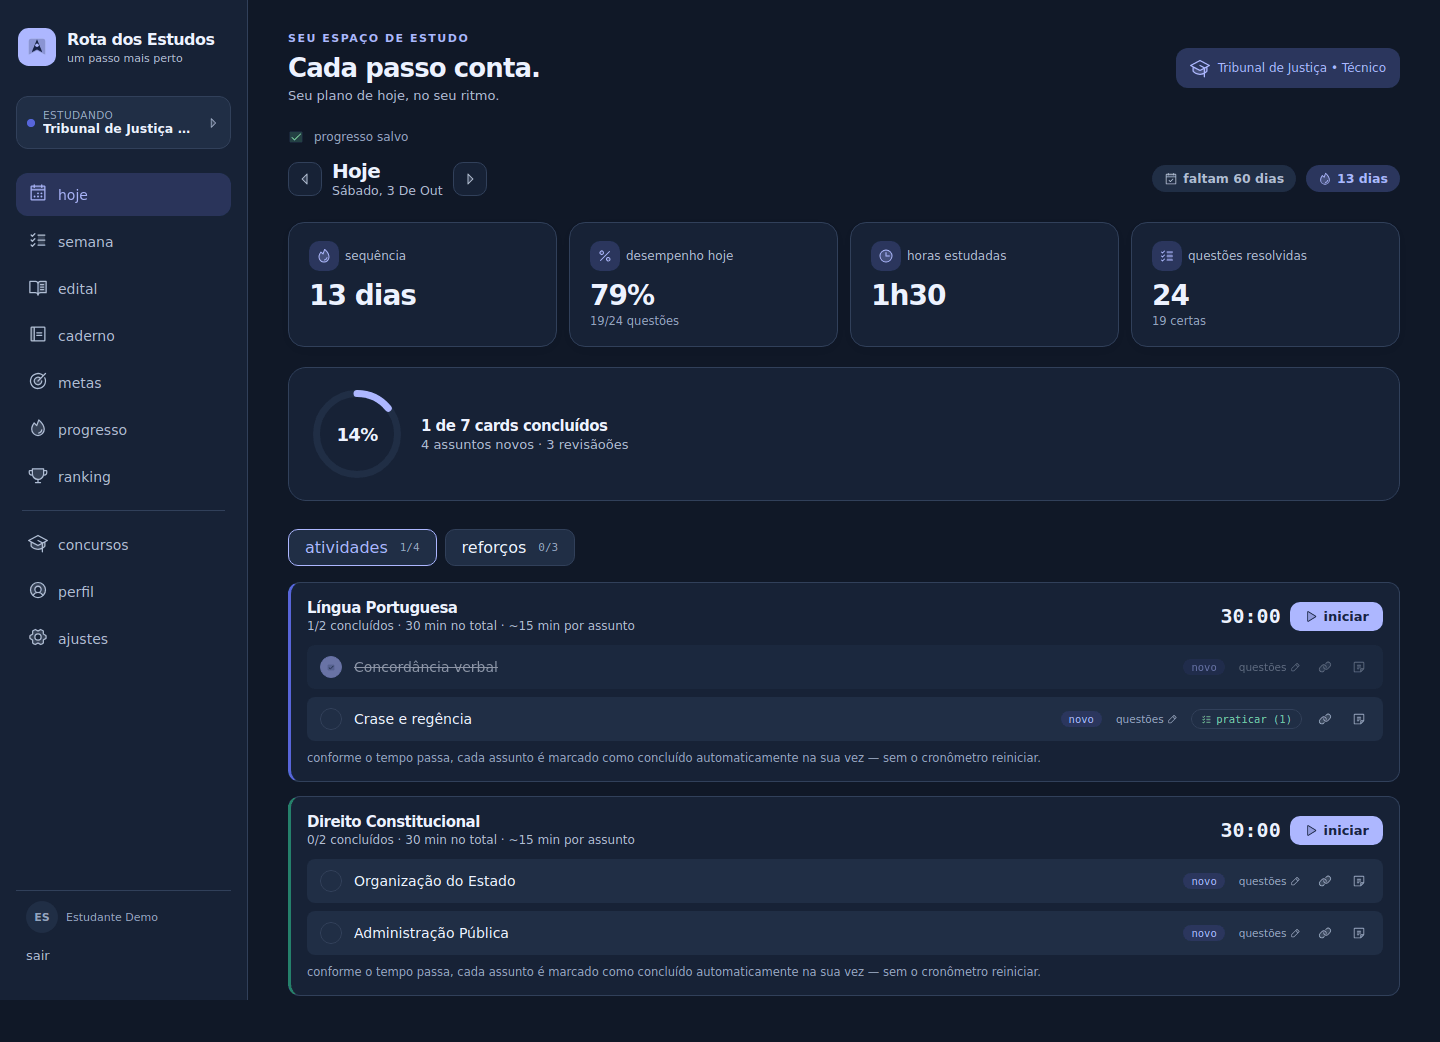
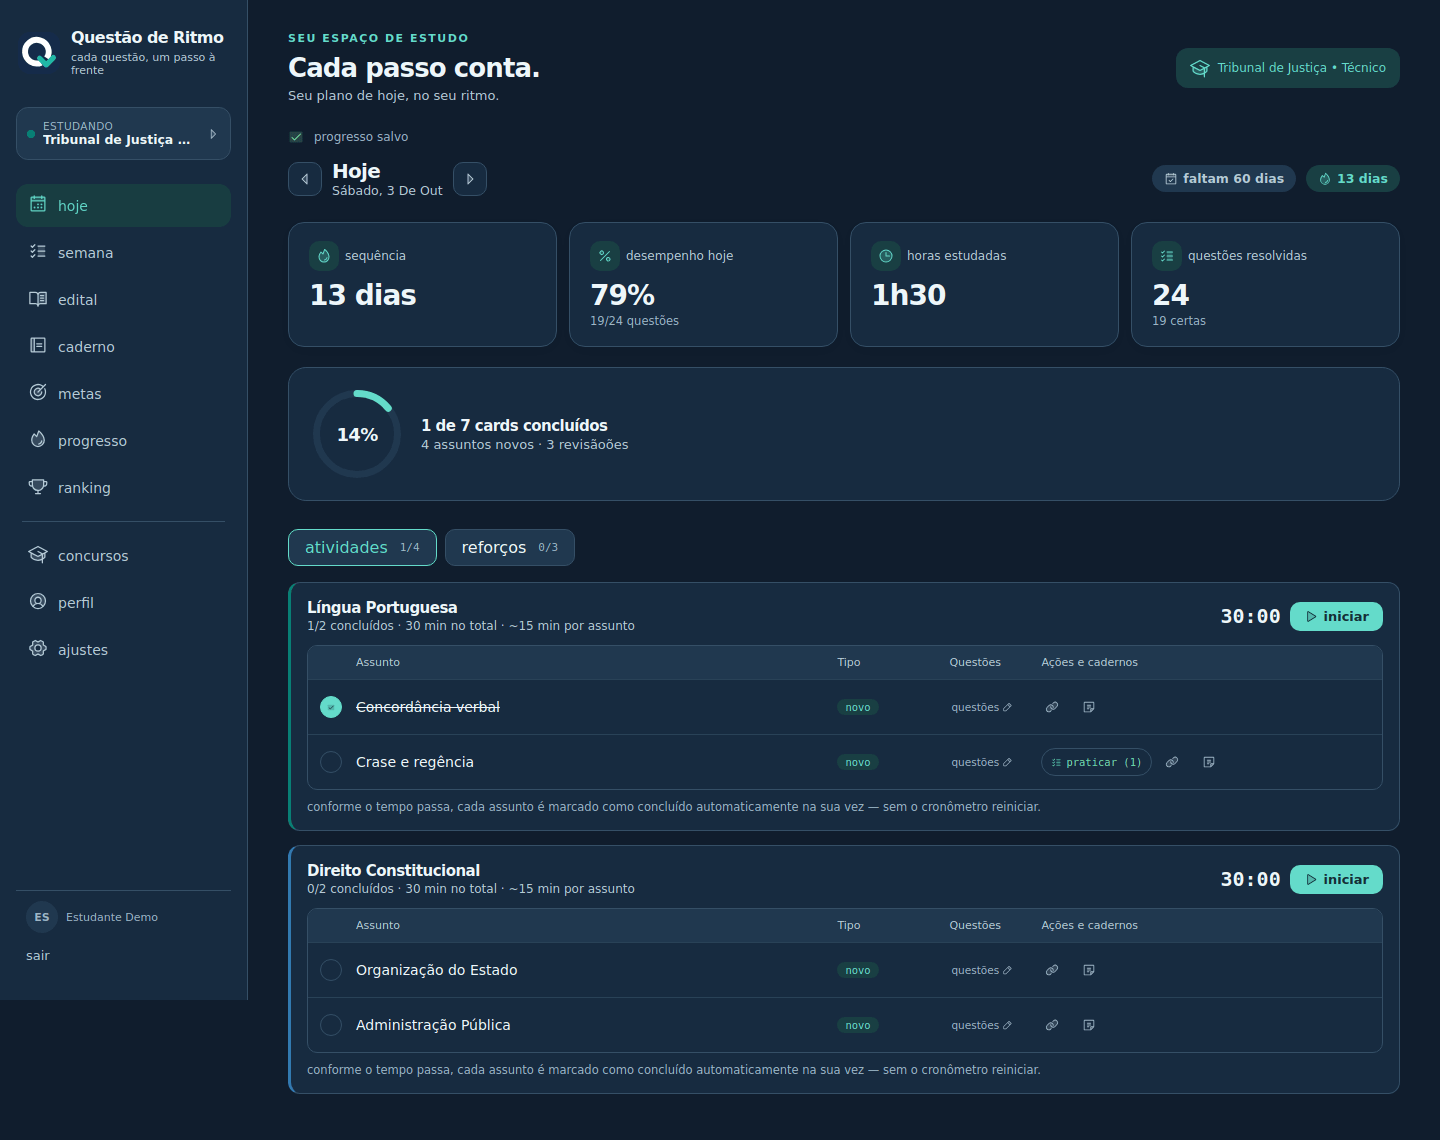
feat: Questão de Ritmo identity and responsive topic tables

diff --git a/index.html b/index.html
@@ -3,13 +3,13 @@
   <head>
     <meta charset="UTF-8" />
     <meta name="viewport" content="width=device-width, initial-scale=1.0" />
-    <meta name="theme-color" content="#F4F6FB" />
+    <meta name="theme-color" content="#F3F7F8" />
     <link rel="icon" type="image/png" href="./favicon.png" />
     <link rel="apple-touch-icon" href="./apple-touch-icon.png" />
     <meta name="apple-mobile-web-app-capable" content="yes" />
     <meta name="apple-mobile-web-app-status-bar-style" content="black-translucent" />
-    <meta name="apple-mobile-web-app-title" content="Rota dos Estudos" />
-    <title>Rota dos Estudos — seu próximo passo</title>
+    <meta name="apple-mobile-web-app-title" content="Questão de Ritmo" />
+    <title>Questão de Ritmo — cada questão, um passo à frente</title>
     <style>
       * { box-sizing: border-box; }
       html, body { margin: 0; padding: 0; height: 100%; }
@@ -18,23 +18,23 @@
 
       :root {
         color-scheme: light;
-        --bg: #F4F6FB; --surface: #FFFFFF; --surface2: #EDF1FA;
-        --border: #DCE3F0; --border-soft: #E9EDF5;
-        --text: #18243D; --text-muted: #52627B; --text-faint: #65748B;
-        --accent: #4554D4; --accent-soft: #E9ECFF; --on-accent: #FFFFFF;
+        --bg: #F3F7F8; --surface: #FFFFFF; --surface2: #EAF2F4;
+        --border: #D5E3E8; --border-soft: #E5EEF1;
+        --text: #152B4A; --text-muted: #4F657A; --text-faint: #62778A;
+        --accent: #087F75; --accent-soft: #DFF5F0; --on-accent: #FFFFFF;
         --success: #167451; --success-soft: #E3F4ED;
         --red: #BF3650; --red-soft: #FCE9EE;
-        --heat-1: #D5DAFF; --heat-2: #9DA8F2;
+        --heat-1: #B7E7DD; --heat-2: #6DC9B9;
       }
       :root[data-theme="dark"] {
         color-scheme: dark;
-        --bg: #101827; --surface: #172236; --surface2: #202E45;
-        --border: #31405A; --border-soft: #26354D;
-        --text: #EDF2FF; --text-muted: #B1BED3; --text-faint: #97A8C2;
-        --accent: #ADB7FF; --accent-soft: #2B365D; --on-accent: #182142;
+        --bg: #101D2D; --surface: #172B40; --surface2: #20384F;
+        --border: #354F66; --border-soft: #294257;
+        --text: #EEF6FA; --text-muted: #B6CAD6; --text-faint: #9BB5C5;
+        --accent: #64DBCA; --accent-soft: #193F43; --on-accent: #102F35;
         --success: #7BDBAF; --success-soft: #193C34;
         --red: #FFA2B5; --red-soft: #442937;
-        --heat-1: #34416A; --heat-2: #6273B1;
+        --heat-1: #225657; --heat-2: #32988F;
       }
       body { font-family: Inter, ui-sans-serif, system-ui, sans-serif; color: var(--text); }
       button, input, textarea, select { font: inherit; }
@@ -72,6 +72,37 @@
         .app-heading { margin-bottom: 20px; }
         .app-heading h1 { font-size: 22px; }
         .app-heading .heading-label { display: none !important; }
+      }
+
+      .topic-table-wrap { margin: 14px 0; border: 1px solid var(--border); border-radius: 10px; overflow: hidden; }
+      .topic-table { width: 100%; border-collapse: collapse; font-size: 13px; text-align: left; }
+      .topic-table th { background: var(--surface2); color: var(--text-muted); font-size: 11px; letter-spacing: .025em; padding: 12px; font-weight: 600; }
+      .topic-table td { padding: 13px 12px; border-top: 1px solid var(--border-soft); vertical-align: middle; }
+      .topic-table td:first-child { width: 40%; line-height: 1.5; }
+      .topic-table tbody tr:hover { background: var(--bg); }
+      .topic-actions { display: flex; align-items: center; gap: 9px; flex-wrap: wrap; }
+      .topic-actions button { min-width: 28px; min-height: 28px; }
+      .topic-status { display: inline-block; border-radius: 6px; font-size: 11px; padding: 4px 8px; }
+      .topic-detail { background: var(--surface2); }
+      .daily-topic-head, .daily-topic-row { display: grid; grid-template-columns: 24px minmax(150px, 1fr) 100px 80px minmax(120px, .7fr); gap: 12px; align-items: center; }
+      .daily-topic-head { font-size: 11px; color: var(--text-muted); padding: 10px 12px; background: var(--surface2); }
+      .daily-topic-table { border: 1px solid var(--border); border-radius: 10px; overflow: hidden; }
+      .daily-topic-item { padding: 13px 12px; border-top: 1px solid var(--border-soft); }
+      .daily-topic-row > :nth-child(3) { justify-self: start; }
+      @media (max-width: 1100px) {
+        .daily-topic-head { display: none; }
+        .daily-topic-row { grid-template-columns: 24px minmax(0, 1fr) auto; }
+        .daily-topic-row > :nth-child(4) { grid-column: 2; justify-self: start; }
+        .daily-actions { grid-column: 2 / -1; }
+      }
+      @media (max-width: 640px) {
+        .topic-table thead { display: none; }
+        .topic-table, .topic-table tbody { display: block; }
+        .topic-table tr { display: grid; grid-template-columns: 1fr 1fr; border-top: 1px solid var(--border); padding: 10px; gap: 10px; }
+        .topic-table td { display: block; border: 0; padding: 0; min-width: 0; }
+        .topic-table td:first-child { width: auto; grid-column: 1 / -1; font-weight: 600; }
+        .topic-table td::before { content: attr(data-label); display: block; font-size: 10px; color: var(--text-muted); margin-bottom: 5px; font-weight: 400; }
+        .topic-detail td { grid-column: 1 / -1; }
       }
       @media (prefers-reduced-motion: reduce) { *, *::before, *::after { transition: none !important; animation: none !important; } }
     </style>

diff --git a/src/views/EditalView.jsx b/src/views/EditalView.jsx
@@ -464,11 +464,11 @@ function MateriaEditalCard({ materia: m, isFirst, isLast, topicDraft, setTopicDr
       {!collapsed && (
         <>
           {m.topics.length > 0 && (
-            <div style={{ display: "flex", flexDirection: "column", gap: 6, marginBottom: 10 }}>
+            <div className="topic-table-wrap"><table className="topic-table" aria-label={`Assuntos de ${m.name}`}><thead><tr><th scope="col">Assunto</th><th scope="col">Situação</th><th scope="col">Questões</th><th scope="col">Cadernos</th><th scope="col">Ações</th></tr></thead><tbody>
               {m.topics.map((t) => (
                 <TopicEditalRow key={t.id} materiaId={m.id} topic={t} removeTopic={removeTopic} updateTopicNotes={updateTopicNotes} updateTopicLink={updateTopicLink} />
               ))}
-            </div>
+            </tbody></table></div>
           )}
 
           <div style={{ display: "flex", gap: 8 }}>
@@ -503,50 +503,17 @@ function TopicEditalRow({ materiaId, topic: t, removeTopic, updateTopicNotes, up
 
 
 
-  return (
-    <div style={{ background: colors.surface2, borderRadius: 6, padding: "6px 8px" }}>
-      <div style={{ display: "flex", alignItems: "center", justifyContent: "space-between", fontSize: 13.5 }}>
-        <span style={{ color: t.status === "estudado" ? colors.textMuted : colors.text, textDecoration: t.mastered ? "line-through" : "none" }}>{t.name}</span>
-        <div style={{ display: "flex", alignItems: "center", gap: 8 }}>
-          {t.questionsTotal > 0 && (
-            <span className="mono" style={{ fontSize: 10.5, color: colors.textFaint }}>
-              {t.questionsCorrect}/{t.questionsTotal} questões
-            </span>
-          )}
-          {t.mastered && <span style={{ fontSize: 11, color: colors.success }}>dominado</span>}
-          <TopicLinkButtons topic={t} />
-          <button
-            onClick={() => setLinkOpen((o) => !o)}
-            aria-label="link do caderno de questões"
-            style={{ ...iconBtnStyle, color: hasLink ? colors.success : colors.textFaint }}
-          >
-            <Link2 size={13} />
-          </button>
-          <button
-            onClick={() => setNotesOpen((o) => !o)}
-            aria-label="anotações do assunto"
-            style={{ ...iconBtnStyle, color: hasNotes ? colors.accent : colors.textFaint }}
-          >
-            <StickyNote size={13} />
-          </button>
-          <button onClick={() => removeTopic(materiaId, t.id)} style={iconBtnStyle}><X size={13} /></button>
-        </div>
-      </div>
-
+  return <>
+    <tr>
+      <td data-label="Assunto" style={{ color: colors.text, textDecoration: t.mastered ? "line-through" : "none" }}>{t.name}</td>
+      <td data-label="Situação"><span className="topic-status" style={{ color: t.mastered ? colors.success : t.status === "estudado" ? colors.accent : colors.textMuted, background: t.status === "estudado" ? colors.accentSoft : colors.surface2 }}>{t.mastered ? "dominado" : t.status === "estudado" ? "estudado" : "pendente"}</span></td>
+      <td data-label="Questões"><span className="mono">{t.questionsTotal > 0 ? `${t.questionsCorrect}/${t.questionsTotal}` : "—"}</span>{t.questionsTotal > 0 && <div style={{ fontSize: 11, color: colors.textMuted, marginTop: 3 }}>{Math.round(t.questionsCorrect / t.questionsTotal * 100)}% de acertos</div>}</td>
+      <td data-label="Cadernos"><div className="topic-actions"><TopicLinkButtons topic={t} /><button onClick={() => setLinkOpen(o => !o)} aria-label="link do caderno de questões" aria-expanded={linkOpen} title="Editar links dos cadernos" style={{ ...iconBtnStyle, color: hasLink ? colors.success : colors.textFaint }}><Link2 size={16} /></button></div></td>
+      <td data-label="Ações"><div className="topic-actions"><button onClick={() => setNotesOpen(o => !o)} aria-label="anotações do assunto" aria-expanded={notesOpen} title="Anotações" style={{ ...iconBtnStyle, color: hasNotes ? colors.accent : colors.textFaint }}><StickyNote size={16} /></button><button onClick={() => removeTopic(materiaId, t.id)} aria-label={`excluir assunto ${t.name}`} title="Excluir assunto" style={iconBtnStyle}><X size={16} /></button></div></td>
+    </tr>
+    {(linkOpen || notesOpen) && <tr className="topic-detail"><td colSpan={5}>
       {linkOpen && <TopicLinksEditor topic={t} onSave={(links) => updateTopicLink(materiaId, t.id, links)} onClose={() => setLinkOpen(false)} />}
-      {notesOpen && (
-        <textarea
-          value={draft}
-          onChange={(e) => setDraft(e.target.value)}
-          onBlur={saveIfChanged}
-          placeholder="observações, pegadinhas, pontos de atenção..."
-          rows={2}
-          style={{
-            width: "100%", marginTop: 6, background: colors.surface, border: `1px solid ${colors.border}`, borderRadius: 6,
-            color: colors.text, fontSize: 12.5, padding: 8, resize: "vertical", boxSizing: "border-box",
-          }}
-        />
-      )}
-    </div>
-  );
+      {notesOpen && <label style={{ display: "grid", gap: 6, fontSize: 12, color: colors.textMuted }}>Anotações — {t.name}<textarea value={draft} onChange={e => setDraft(e.target.value)} onBlur={saveIfChanged} placeholder="observações, pegadinhas, pontos de atenção..." rows={3} style={{ ...inputStyle, width: "100%", resize: "vertical" }} /></label>}
+    </td></tr>}
+  </>;
 }

diff --git a/src/views/DiaView.jsx b/src/views/DiaView.jsx
@@ -242,7 +242,8 @@ function MateriaGroupCard({ concursoId, materia, minutesPerMateria, cards: rawCa
 
       {resting && <RestTimer materiaId={materia.id} {...restTimers} />}
 
-      <div style={{ display: "flex", flexDirection: "column", gap: 8 }}>
+      <div className="daily-topic-table">
+        <div className="daily-topic-head" aria-hidden="true"><span></span><span>Assunto</span><span>Tipo</span><span>Questões</span><span>Ações e cadernos</span></div>
         {cards.map((card) => {
           const topic = topicById(materia, card.topicId);
           return (
@@ -354,8 +355,8 @@ function TopicRow({ concursoId, materiaName, card, topic, onToggle, forcedOpen, 
   }
 
   return (
-    <div style={{ background: colors.surface2, borderRadius: 8, padding: "10px 12px", opacity: card.feito ? 0.55 : 1, border: forcedOpen ? `1px solid ${colors.accent}` : "1px solid transparent" }}>
-      <div style={{ display: "flex", alignItems: "center", gap: 12, flexWrap: "wrap" }}>
+    <div className="daily-topic-item" style={{ border: forcedOpen ? `1px solid ${colors.accent}` : undefined }}>
+      <div className="daily-topic-row">
         <button
           onClick={handleCircleClick}
           aria-label={card.feito ? "marcar como não estudado" : awaitingReveal ? "virar card" : "marcar como estudado"}
@@ -387,18 +388,6 @@ function TopicRow({ concursoId, materiaName, card, topic, onToggle, forcedOpen, 
         >
           {isRevisao ? "revisão · ciclo" : "novo"}
         </div>
-        {awaitingReveal && (
-          <button
-            onClick={() => setRevealed(true)}
-            style={{
-              display: "flex", alignItems: "center", gap: 5, background: colors.successSoft, border: `1px solid ${colors.success}`,
-              borderRadius: 20, padding: "4px 10px", flexShrink: 0,
-            }}
-          >
-            <Eye size={12} color={colors.success} />
-            <span className="mono" style={{ fontSize: 10.5, color: colors.success }}>virar card</span>
-          </button>
-        )}
         <button
           onClick={openQuestionsEdit}
           style={{ background: "transparent", border: "none", padding: "4px 2px", display: "flex", alignItems: "center", gap: 3, flexShrink: 0 }}
@@ -412,6 +401,19 @@ function TopicRow({ concursoId, materiaName, card, topic, onToggle, forcedOpen, 
           )}
           <Pencil size={10.5} color={colors.textFaint} />
         </button>
+        <div className="topic-actions daily-actions">
+        {awaitingReveal && (
+          <button
+            onClick={() => setRevealed(true)}
+            style={{
+              display: "flex", alignItems: "center", gap: 5, background: colors.successSoft, border: `1px solid ${colors.success}`,
+              borderRadius: 20, padding: "4px 10px", flexShrink: 0,
+            }}
+          >
+            <Eye size={12} color={colors.success} />
+            <span className="mono" style={{ fontSize: 10.5, color: colors.success }}>virar card</span>
+          </button>
+        )}
         {questionsAvailable > 0 && (
           <button
             onClick={() => setPracticing((p) => !p)}
@@ -439,6 +441,7 @@ function TopicRow({ concursoId, materiaName, card, topic, onToggle, forcedOpen, 
         >
           <StickyNote size={14} />
         </button>
+        </div>
       </div>
 
       {questionsEditOpen && (

diff --git a/src/components/Brand.jsx b/src/components/Brand.jsx
@@ -2,13 +2,8 @@ import React from "react";
 import { colors } from "../styles/colors.js";
 
 export function Brand({ compact = false }) {
-  return <div style={{ display: "flex", alignItems: "center", gap: 11 }}>
-    <svg aria-hidden="true" width="38" height="38" viewBox="0 0 64 64" style={{ flexShrink: 0 }}>
-      <rect width="64" height="64" rx="18" fill={colors.accent} />
-      <path d="M18 45V22a4 4 0 0 1 4-4h20a4 4 0 0 1 4 4v23l-14-7z" fill={colors.onAccent} opacity=".22" />
-      <path d="m23 41 9-22 9 22-9-5z" fill={colors.onAccent} />
-      <circle cx="32" cy="29" r="3" fill={colors.accent} />
-    </svg>
-    <div><div className="sg" style={{ color: colors.text, fontSize: compact ? 16 : 20, fontWeight: 750 }}>Rota dos Estudos</div><div style={{ fontSize: 11, color: colors.textMuted, marginTop: 3 }}>um passo mais perto</div></div>
+  return <div style={{ display: "flex", alignItems: "center", gap: 11, minWidth: 0 }}>
+    <img src={`${import.meta.env.BASE_URL}brand.svg`} alt="" width="42" height="42" style={{ flexShrink: 0 }} />
+    <div><div className="sg" style={{ color: colors.text, fontSize: compact ? 16 : 20, fontWeight: 750, lineHeight: 1.2 }}>Questão de Ritmo</div><div style={{ fontSize: 11, color: colors.textMuted, marginTop: 4 }}>cada questão, um passo à frente</div></div>
   </div>;
 }

diff --git a/src/auth/LoginForm.jsx b/src/auth/LoginForm.jsx
@@ -122,7 +122,7 @@ export function LoginForm({ onAuthed, noticeMessage }) {
     <div className="auth-shell">
       <section className="auth-story">
         <Brand />
-        <h1 className="sg">Sua aprovação<br /><span style={{ color: colors.accent }}>começa na rota.</span></h1>
+        <h1 className="sg">Sua aprovação<br /><span style={{ color: colors.accent }}>ganha ritmo aqui.</span></h1>
         <p>Transforme um edital inteiro em passos possíveis. Organize seus estudos, revise o que importa e veja sua evolução.</p>
         <div className="auth-features"><span><BookOpen size={20} color={colors.accent} />Planeje</span><span><NotebookText size={20} color={colors.accent} />Pratique</span><span><Target size={20} color={colors.accent} />Evolua</span></div>
       </section>

diff --git a/vite.config.js b/vite.config.js
@@ -29,15 +29,15 @@ export default defineConfig({
       },
       includeAssets: ["favicon.png", "apple-touch-icon.png"],
       manifest: {
-        name: "Rota dos Estudos",
-        short_name: "Rota dos Estudos",
+        name: "Questão de Ritmo",
+        short_name: "Q. de Ritmo",
         description: "Plano de estudos para concursos: edital, metas diárias e progresso.",
         lang: "pt-BR",
         start_url: "./",
         scope: "./",
         display: "standalone",
-        background_color: "#F4F6FB",
-        theme_color: "#F4F6FB",
+        background_color: "#F3F7F8",
+        theme_color: "#F3F7F8",
         icons: [
           { src: "icon-192.png", sizes: "192x192", type: "image/png" },
           { src: "icon-512.png", sizes: "512x512", type: "image/png" },

diff --git a/src/sw.js b/src/sw.js
@@ -14,7 +14,7 @@ self.addEventListener("activate", (event) => {
 precacheAndRoute(self.__WB_MANIFEST);
 
 self.addEventListener("push", (event) => {
-  let data = { title: "Rota dos Estudos", body: "Você tem novidades no seu plano." };
+  let data = { title: "Questão de Ritmo", body: "Você tem novidades no seu plano." };
   try {
     if (event.data) data = { ...data, ...event.data.json() };
   } catch {
